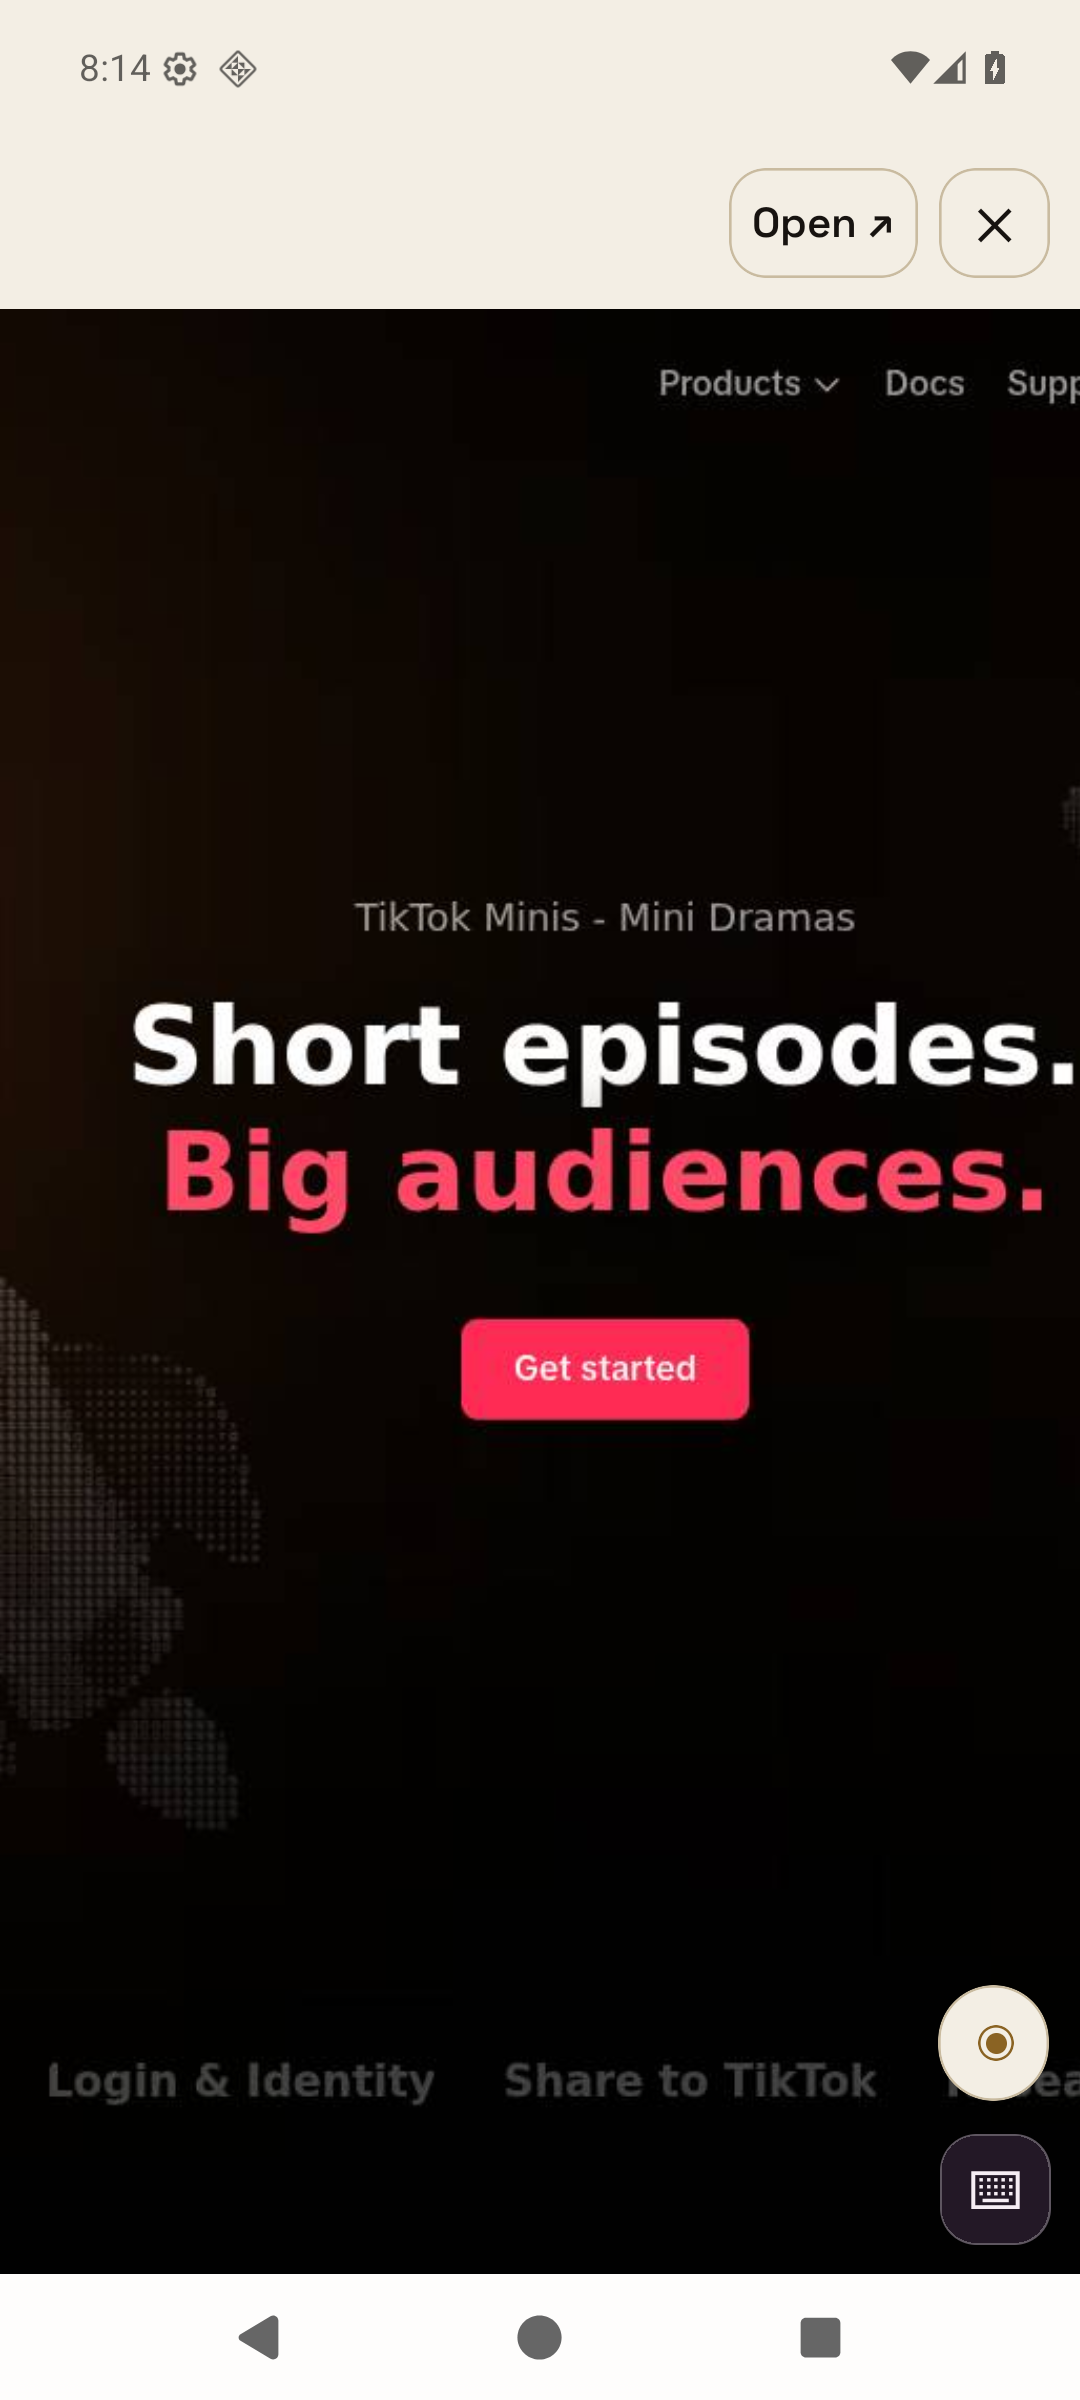
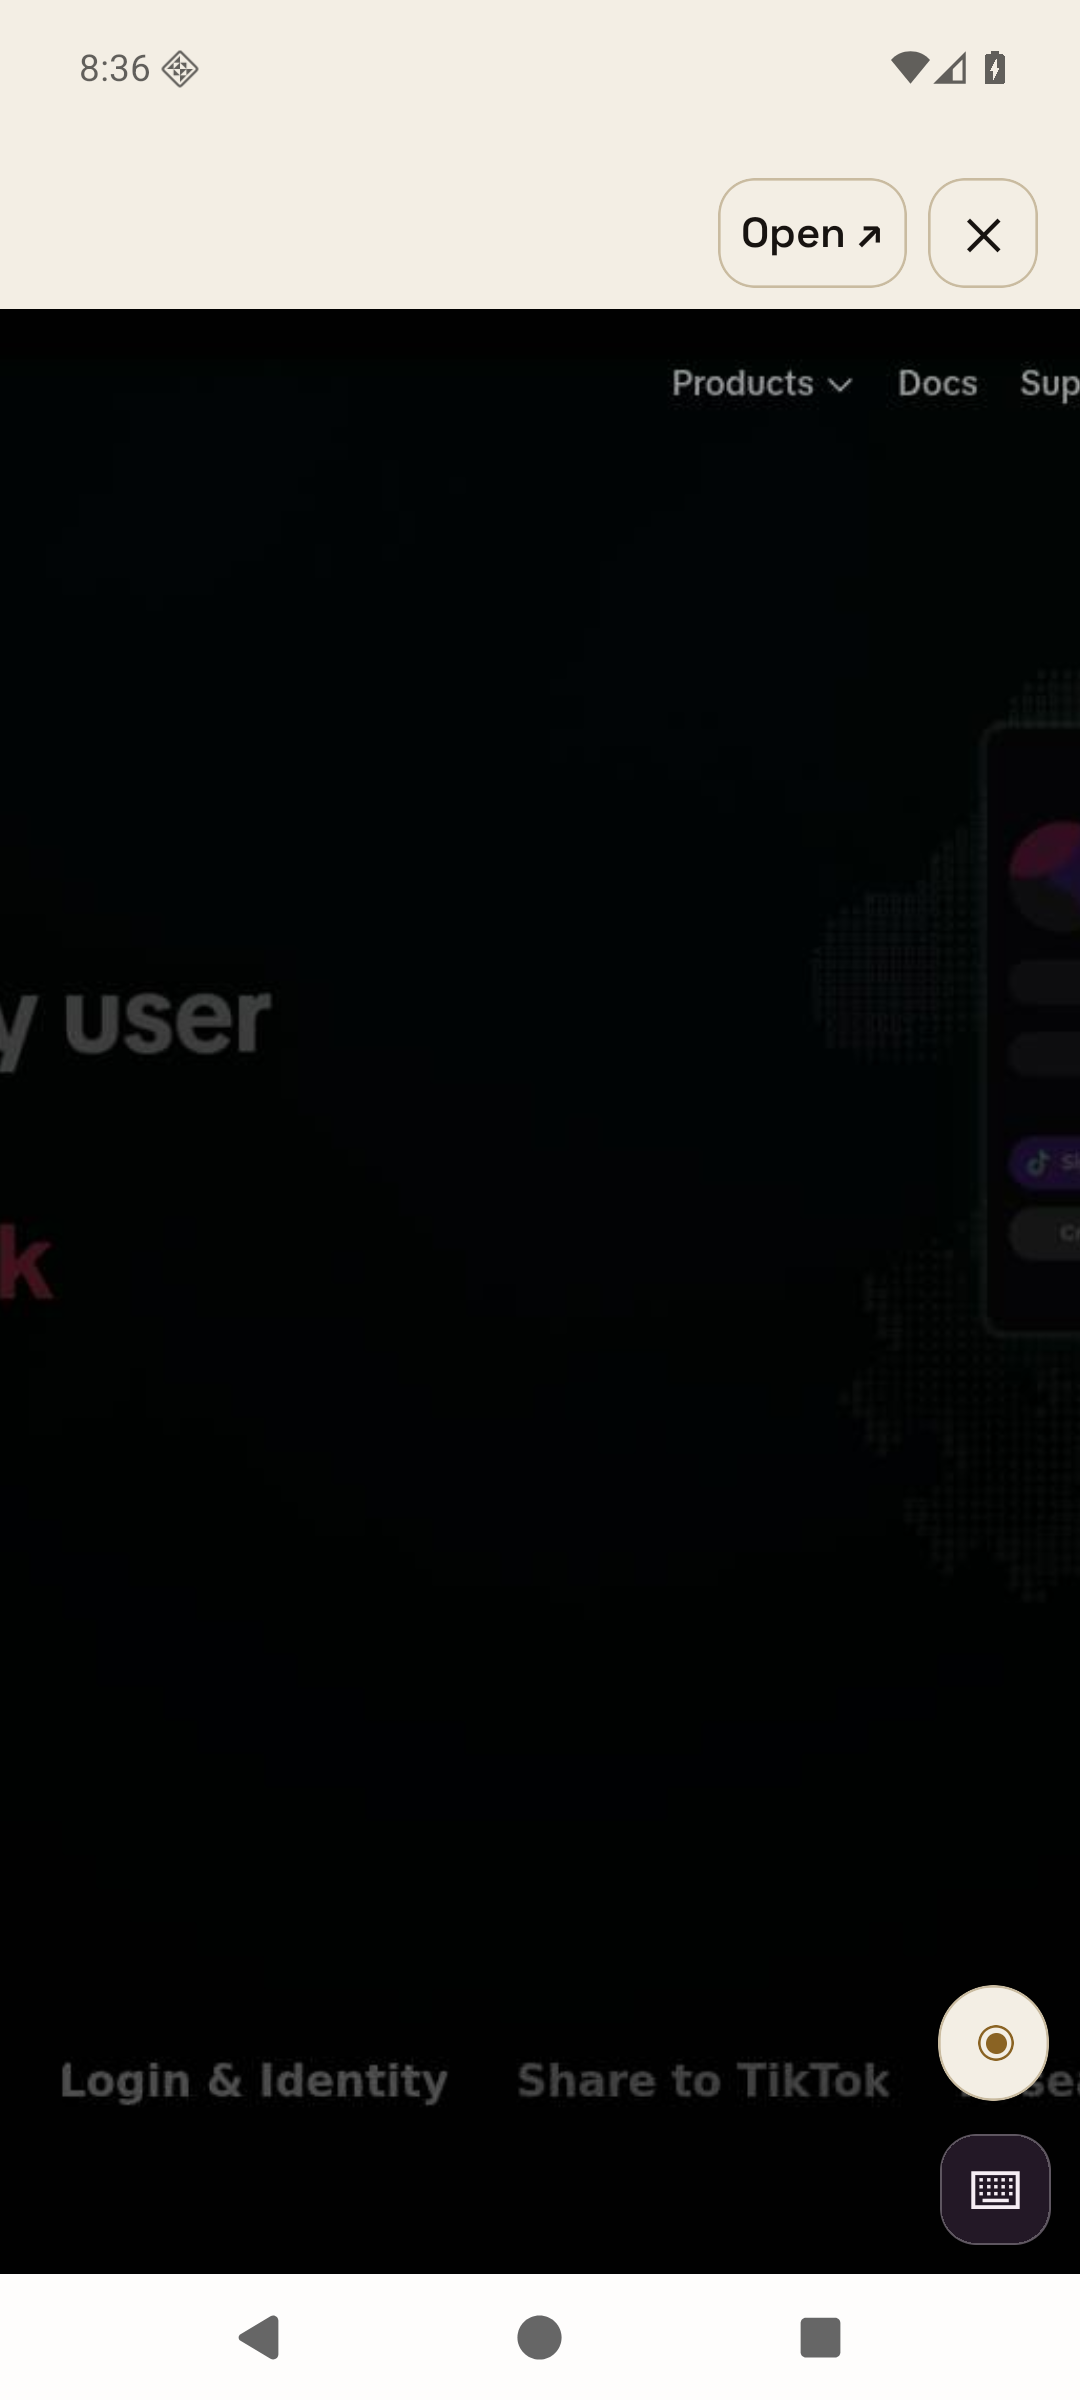
fix: use house spacing tokens for the browser toolbar

diff --git a/apps/mobile/sources/components/buzz/ComputerSession.tsx b/apps/mobile/sources/components/buzz/ComputerSession.tsx
@@ -148,7 +148,7 @@ export function ComputerSessionViewer({ session, onClose, roomId, agentHandle }:
       Modal.alert('Could not open browser', 'The live browser is unavailable. Try again.');
     }
   };
-  return <View style={[styles.viewer, { paddingTop: insets.top + 12, paddingBottom: insets.bottom }]} testID="computer-session-viewer">
+  return <View style={[styles.viewer, { paddingTop: insets.top, paddingBottom: insets.bottom }]} testID="computer-session-viewer">
     <View style={styles.controls} testID="computer-session-controls">
       {!ended && session.access ? <Pressable style={styles.browserControl} onPress={() => void openInBrowser()} accessibilityRole="button" accessibilityLabel="Open in browser" testID="computer-session-open-browser"><Text style={styles.controlText}>Open ↗</Text></Pressable> : null}
       <Pressable style={styles.control} onPress={onClose} accessibilityRole="button" accessibilityLabel="Close browser" testID="computer-session-close"><Text style={styles.controlText}>✕</Text></Pressable>
@@ -170,7 +170,8 @@ const styles = StyleSheet.create((theme) => ({
   link: { ...theme.buzz.type.body, color: theme.buzz.accent },
   viewer: { flex: 1, backgroundColor: theme.buzz.bgBase },
   viewerStream: { flex: 1, minHeight: 0 },
-  controls: { flexDirection: 'row', justifyContent: 'flex-end', gap: 8, marginHorizontal: 12, marginBottom: 12 },
+  controls: { flexDirection: 'row', justifyContent: 'flex-end', gap: theme.buzz.space.sm,
+    marginTop: theme.buzz.space.md, marginHorizontal: theme.buzz.space.md, marginBottom: theme.buzz.space.sm },
   control: { width: 42, height: 42, borderRadius: 14, borderWidth: 1, borderColor: theme.buzz.borderStrong, backgroundColor: theme.buzz.bgBase, alignItems: 'center', justifyContent: 'center' },
   browserControl: { height: 42, paddingHorizontal: theme.buzz.space.sm, borderRadius: 14, borderWidth: 1, borderColor: theme.buzz.borderStrong, backgroundColor: theme.buzz.bgBase, alignItems: 'center', justifyContent: 'center' },
   controlText: { ...theme.buzz.type.bodyStrong, color: theme.buzz.textPrimary },

diff --git a/apps/mobile/sources/components/buzz/ComputerSession.test.tsx b/apps/mobile/sources/components/buzz/ComputerSession.test.tsx
@@ -15,7 +15,7 @@ vi.mock('react-native-safe-area-context', () => ({ useSafeAreaInsets: () => ({ t
 vi.mock('react-native-unistyles', () => ({
   StyleSheet: { create: (factory: any) => factory({ buzz: {
     transcriptCard: { marginTop: 8, cornerRadius: 12, side: 16, footerMinHeight: 40 },
-    space: { xs: 4, sm: 8 }, type: { body: {}, bodyStrong: {}, machine: {} },
+    space: { xs: 4, sm: 8, md: 16 }, type: { body: {}, bodyStrong: {}, machine: {} },
     border: '#444', borderStrong: '#555', bgBase: '#111', textPrimary: '#fff', ledgerQuiet: '#aaa', accent: '#c90',
   } }) },
 }));
@@ -80,9 +80,11 @@ it('keeps only Open and Close above the page; closing never controls or ends the
   const onClose = vi.fn();
   let tree: ReturnType<typeof create>;
   await act(async () => { tree = create(<ComputerSessionViewer session={session} onClose={onClose} />); });
-  expect(tree!.root.findByProps({ testID: 'computer-session-viewer' }).props.style[1]).toEqual({ paddingTop: 12, paddingBottom: 24 });
+  expect(tree!.root.findByProps({ testID: 'computer-session-viewer' }).props.style[1]).toEqual({ paddingTop: 0, paddingBottom: 24 });
   const controls = tree!.root.findByProps({ testID: 'computer-session-controls' });
   expect(controls.props.style.position).toBeUndefined();
+  expect(controls.props.style.marginTop + controls.props.style.marginBottom).toBe(24);
+  expect(controls.props.style.marginHorizontal).toBe(16);
   expect(controls.findAllByType('Pressable').map((button: any) => button.props.accessibilityLabel))
     .toEqual(['Open in browser', 'Close browser']);
   await act(async () => tree!.root.findByProps({ testID: 'computer-session-close' }).props.onPress());

diff --git a/data/computer-use-round4-proof/report.md b/data/computer-use-round4-proof/report.md
@@ -20,10 +20,10 @@ Activity observations use hidden `activity` rows with no durable fact. Passive o
 
 ## Checks
 
-After integrating the dependency and rebasing onto main: 125 related server tests, 117 helper tests and 30 mobile tests passed. The final computer-session/live-delta and system-line tests passed again (15 tests) after the last test changes. Server, helper and mobile type checks passed. Both the bundle and APK were rebuilt from the combined branch, and the after frames were refreshed.
+After integrating the dependency and rebasing onto main: 125 related server tests, 117 helper tests and 39 focused mobile tests (including design lint) passed. The final computer-session/live-delta and system-line tests passed again (15 tests) after the last test changes. Server, helper and mobile type checks passed. CI exposed three off-scale toolbar spacing values; these now use the existing 8/16 px house tokens without changing the page offset or composer/keyboard gap. Both the bundle and APK were rebuilt after that fix, and the after frames were refreshed.
 
 Coverage includes passive open/close without commands, actual viewer naming with no handle, next-turn context, hidden phone transcript rows, historical cleanup, explicit close without control writes, frame relay/access/expiry, and source grammar enforcement.
 
 No live model helper was started. The no-wake claim is verified at the authoritative command store rather than by observing model behavior. No captain Workspace, live helper, shared no-mistakes daemon or shared Squire broker was restarted or updated.
 
[2 lines of base64/hex data omitted]
